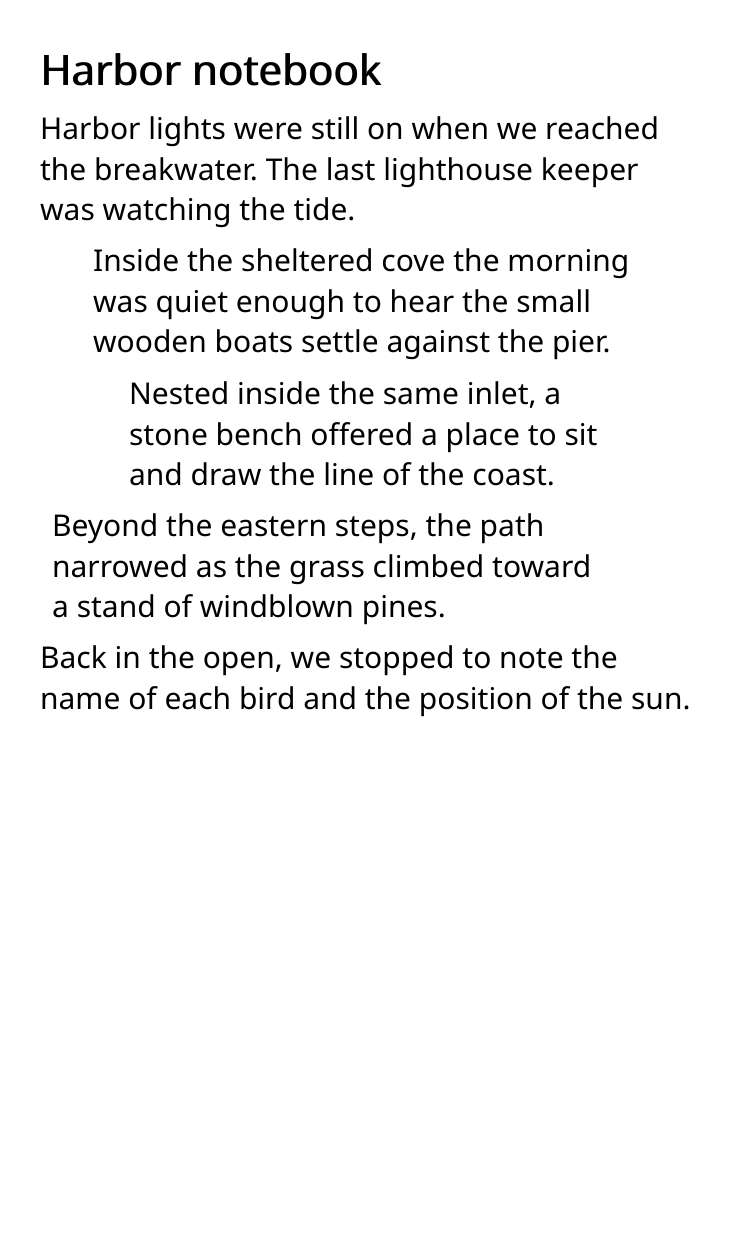
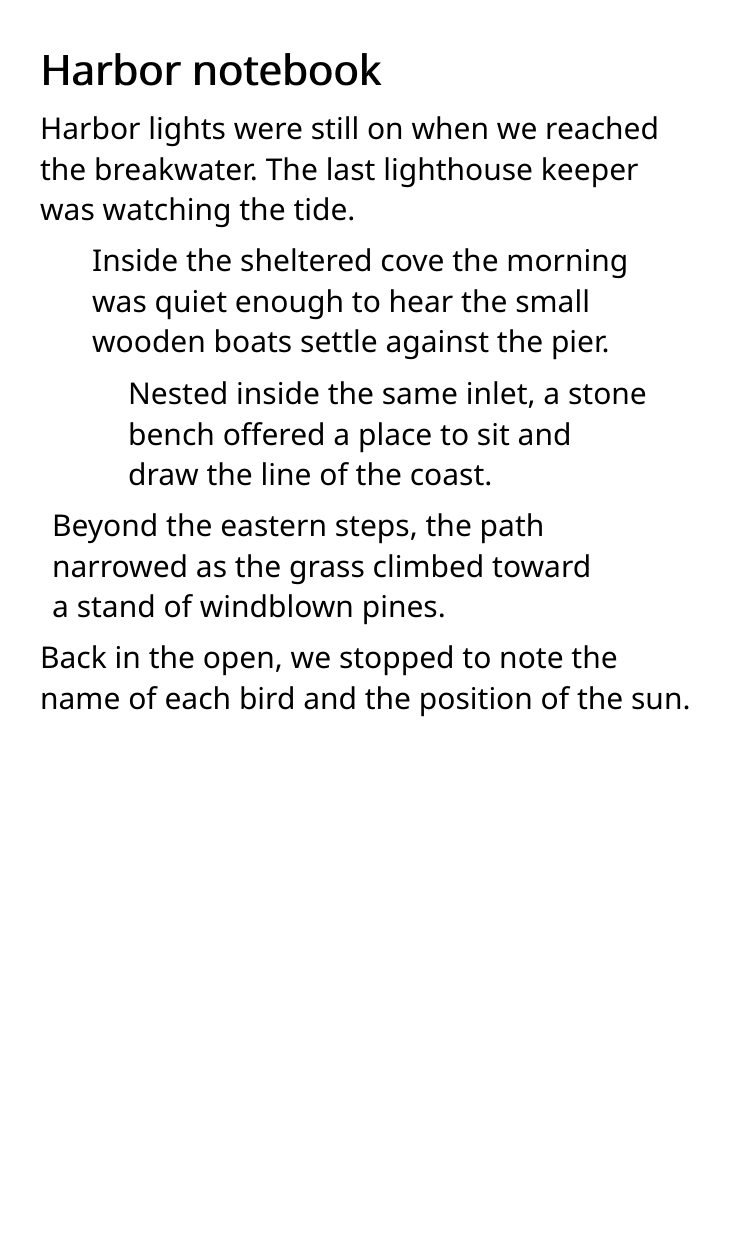
Match KOReader Book mode for fractional box edges and signed hanging indents

Changed region(s): [[0.1243, 0.1839, 0.8703, 0.3984]]

diff --git a/src/parley_layout/publisher_padding_tests.rs b/src/parley_layout/publisher_padding_tests.rs
@@ -31,8 +31,8 @@ fn publisher_box_padding_shapes_wrapped_text_and_preserves_source_positions() {
     assert_ne!(plain.capture(0).unwrap(), styled.capture(0).unwrap());
     for (id, phrase, displacement) in [
         ("ordinary", "Harbor lights", 0),
-        ("sheltered", "Inside the sheltered", 53),
-        ("nested", "Nested inside", 89),
+        ("sheltered", "Inside the sheltered", 52),
+        ("nested", "Nested inside", 88),
         ("asymmetric", "Beyond the eastern", 12),
         ("plain", "Back in the open", 0),
     ] {
@@ -139,7 +139,11 @@ fn compares_publisher_padding_in_an_original_document() {
             let shift = (p.x - old.x).round() as i32;
             let changed = p.layout.len() != old.layout.len();
             let measure = p.layout.width() - old.layout.width();
-            if shift == 0 && !changed && measure.abs() < 0.5 {
+            let changed_lines = p.layout.lines().zip(old.layout.lines()).any(|(new, old)| {
+                new.text_range() != old.text_range()
+                    || (new.metrics().offset - old.metrics().offset).abs() > 0.25
+            });
+            if shift == 0 && !changed && !changed_lines && measure.abs() < 0.5 {
                 continue;
             }
             narrower += 1;
@@ -260,4 +264,75 @@ fn negative_first_lines_spend_available_physical_padding_before_shifting_other_l
     let line = rtl.layout.get(0).unwrap();
     let edge = line.metrics().offset + line.metrics().advance;
     assert!((edge - (cfg.text_width() as f32 - 45.)).abs() < 1.);
+}
+
+#[test]
+fn an_inset_paragraph_resolves_its_visible_link_at_the_new_word_position() {
+    let html = r##"<html><body><p style="padding-left:120px"><a href="#destination">Harbor charts</a> and notes.</p><p id="destination">The next landing.</p></body></html>"##;
+    let p = Probe::from_book_content(
+        Book::open(&crate::test_fixture("field-notes-epub3.epub")).unwrap(),
+        Engine::Parley,
+        &[crate::test_fixture("fonts/NotoSans-Regular.ttf")],
+        Settings {
+            width: 640,
+            height: 800,
+            margin: 30,
+            font_size: 26.,
+            ..Default::default()
+        },
+        0,
+        Some(html.into()),
+    )
+    .unwrap();
+    let start = p.matches("Harbor charts").remove(0);
+    let end = crate::Anchor {
+        offset: start.offset + "Harbor".len(),
+        ..start.clone()
+    };
+    let selection = p.select_range(&start, &end).unwrap();
+    let page = p.page_for(&start).unwrap();
+    let bounds = p.selection_rects(page, &selection)[0];
+    let hit = p
+        .link_at(
+            page,
+            (bounds.x + bounds.width / 2) as f32,
+            (bounds.y + bounds.height / 2) as f32,
+        )
+        .unwrap();
+    assert_eq!(hit.fragment.as_deref(), Some("destination"));
+    assert_eq!(p.page_for(&p.fragment("destination").unwrap()), Some(page));
+}
+
+#[test]
+fn fractional_em_padding_matches_signed_fixed_point_lengths_at_both_font_sizes() {
+    let words = "All along the dunes the tide has left small white shells and pebbles. ".repeat(7);
+    let html = format!(
+        r#"<html><body><p id="large" style="padding-left:2.35em;text-indent:-0.65em">{words}</p>
+        <div style="font-size:85%"><p id="small" style="padding-left:2.35em;text-indent:-0.65em">{words}</p></div>
+        </body></html>"#
+    );
+    let p = Probe::from_book_content(
+        Book::open(&crate::test_fixture("field-notes-epub3.epub")).unwrap(),
+        Engine::Parley,
+        &[crate::test_fixture("fonts/NotoSans-Regular.ttf")],
+        Settings {
+            width: 760,
+            height: 1680,
+            margin: 30,
+            font_size: 42.,
+            ..Default::default()
+        },
+        0,
+        Some(html),
+    )
+    .unwrap();
+    let crate::Renderer::Parley(engine) = &p.renderer else {
+        panic!()
+    };
+    for (id, first, rest) in [("large", 70., 98.), ("small", 59., 82.)] {
+        let key = p.fragment(id).unwrap().block;
+        let q = engine.paragraphs.iter().find(|q| q.key == key).unwrap();
+        assert_eq!(q.x + q.layout.get(0).unwrap().metrics().offset, first);
+        assert_eq!(q.x + q.layout.get(1).unwrap().metrics().offset, rest);
+    }
 }

diff --git a/src/book_style.rs b/src/book_style.rs
@@ -77,6 +77,7 @@ impl ImageLength {
 pub(crate) enum CssLength {
     Em(f32),
     RootEm(f32),
+    ComputedEm { value: f32, font_scale: f32 },
     Pixels(f32),
     Fraction(f32),
 }
@@ -90,8 +91,14 @@ impl Default for CssLength {
 impl CssLength {
     fn computed(self, font: f32, root_font: f32) -> Self {
         match self {
-            Self::Em(em) => Self::Em(em * font),
-            Self::RootEm(em) => Self::Em(em * root_font),
+            Self::Em(value) => Self::ComputedEm {
+                value,
+                font_scale: font,
+            },
+            Self::RootEm(value) => Self::ComputedEm {
+                value,
+                font_scale: root_font,
+            },
             length => length,
         }
     }
@@ -99,9 +106,27 @@ impl CssLength {
     pub fn pixels(self, width: u32, reader_font: f32) -> f32 {
         match self {
             Self::Em(em) | Self::RootEm(em) => em * reader_font,
+            Self::ComputedEm { value, font_scale } => value * font_scale * reader_font,
             Self::Pixels(px) => px,
             Self::Fraction(ratio) => ratio * width as f32,
         }
+    }
+
+    // CREngine stores CSS numbers as signed units of 1/256 and uses integer
+    // font sizes and container widths when converting a block edge to pixels.
+    pub fn box_pixels(self, width: u32, reader_font: f32) -> f32 {
+        let fixed = |value: f32| (f64::from(value) * 256.).round() / 256.;
+        let pixels = match self {
+            Self::Pixels(px) => (fixed(px) + 127. / 256.).floor(),
+            Self::Fraction(ratio) => (f64::from(width) * fixed(ratio * 100.) / 100.).floor(),
+            Self::Em(value) | Self::RootEm(value) => {
+                (fixed(value) * f64::from(reader_font).floor()).floor()
+            }
+            Self::ComputedEm { value, font_scale } => {
+                (fixed(value) * f64::from(font_scale * reader_font).floor()).floor()
+            }
+        };
+        pixels as f32
     }
 }
 
@@ -133,6 +158,10 @@ impl TextIndent {
 
     pub fn pixels(self, width: u32, reader_font: f32) -> f32 {
         self.length.pixels(width, reader_font)
+    }
+
+    pub fn box_pixels(self, width: u32, reader_font: f32) -> f32 {
+        self.length.box_pixels(width, reader_font)
     }
 }
 

diff --git a/src/publisher_padding.rs b/src/publisher_padding.rs
@@ -34,7 +34,7 @@ impl BoxArea {
         style: &Style,
         font: f32,
     ) -> (u32, u32) {
-        let indent = style.text_indent.pixels(self.outer_width, font);
+        let indent = style.text_indent.box_pixels(self.outer_width, font);
         if indent >= 0.0 || self.width == self.outer_width {
             return (self.x, self.width);
         }
@@ -53,8 +53,8 @@ impl BoxArea {
     }
 
     fn pad(&mut self, sides: &[CssLength; 2], font: f32) {
-        let left = sides[0].pixels(self.width, font).round();
-        let right = sides[1].pixels(self.width, font).round();
+        let left = sides[0].box_pixels(self.width, font);
+        let right = sides[1].box_pixels(self.width, font);
         let sum = left + right;
         if sum <= 0. {
             return;
@@ -179,8 +179,8 @@ mod tests {
         let sibling = r("sibling");
         let (first_x, cell_width) = first.cell.unwrap().bounds(800, 9);
         let (second_x, second_width) = second.cell.unwrap().bounds(800, 9);
-        let ten_percent = (cell_width as f32 * 0.1).round() as u32;
-        let nested = ((cell_width - ten_percent) as f32 * 0.1).round() as u32;
+        let ten_percent = (cell_width as f32 * 0.1).floor() as u32;
+        let nested = ((cell_width - ten_percent) as f32 * 0.1).floor() as u32;
         assert_eq!(
             (first.x, first.width),
             (

diff --git a/src/parley_layout.rs b/src/parley_layout.rs
@@ -759,10 +759,13 @@ impl LineIndent {
         // available column and shifts the other lines inward (as CREngine does
         // when page overflow is disabled). This also protects adjacent cells.
         let limit = (width as f32 - font.min(width as f32 / 2.0)).max(0.0);
-        let css = style
-            .text_indent
-            .pixels(content_width, font)
-            .clamp(-limit, limit);
+        let requested = style.text_indent.pixels(content_width, font);
+        let css = if requested < 0.0 {
+            style.text_indent.box_pixels(content_width, font)
+        } else {
+            requested
+        }
+        .clamp(-limit, limit);
         let (first, rest) = if style.text_indent.hanging {
             (0.0, marker as f32 + css)
         } else {

diff --git a/docs/publisher-box-padding.md b/docs/publisher-box-padding.md
@@ -6,7 +6,7 @@ Reader now applies the left and right padding that EPUB publishers use to set of
 | --- | --- |
 | ![Quote and nested paragraph at the ordinary left edge](screenshots/publisher-box-no-padding.png) | ![Quote inset on both sides and nested note further inset](screenshots/publisher-box-padding.png) |
 
-Both images show the same authored document at 740 × 1240 pixels with 30 px type. The quotation gains 53 px on either side. A 36 px inset on its second paragraph brings that paragraph’s total displacement to 89 px. The paragraph after the quotation returns to the page edge. [Screenshot fixture](../tests/fixtures/publisher-box-padding.xhtml) · [Source-position and hit-testing checks](../src/parley_layout/publisher_padding_tests.rs)
+Both images show the same authored document at 740 × 1240 pixels with 30 px type. The quotation gains 52 px on either side. A 36 px inset on its second paragraph brings that paragraph’s total displacement to 88 px. The paragraph after the quotation returns to the page edge. [Screenshot fixture](../tests/fixtures/publisher-box-padding.xhtml) · [Source-position and hit-testing checks](../src/parley_layout/publisher_padding_tests.rs)
 
 ## Publisher rules
 
@@ -16,7 +16,7 @@ KOReader v2026.07.1 uses CREngine’s shorthand expansion, content-box measureme
 
 ## Original publications
 
-The Mac comparison held fonts, page size, source markup and remaining publisher styles constant. It removed only horizontal padding for the control. Across 16 sections from seven original EPUBs, the reader changed the geometry of 322 paragraphs. Of these, 34 changed line count. Selections still resolved the same original text in both layouts. Sampled pages rendered and returned to their saved source positions. The authored regression also checks search matches and word taps.
+The Mac comparison held fonts, page size, source markup and remaining publisher styles constant. It removed only horizontal padding for the control. Across 20 sections from eight original EPUBs, Reader changed the geometry of 609 paragraphs. Of these, 50 changed line count. Selections still resolved the same original text in both layouts. Sampled pages rendered and returned to their saved source positions. The authored regression also checks search matches and word taps.
 
 | Anonymous EPUB | Chapters checked | Paragraphs with changed geometry | Paragraphs with changed line count |
 | --- | ---: | ---: | ---: |
@@ -27,5 +27,12 @@ The Mac comparison held fonts, page size, source markup and remaining publisher 
 | 058 | 2 | 25 | 0 |
 | 061 | 2 | 52 | 6 |
 | 062 | 3 | 16 | 1 |
+| 069 | 4 | 287 | 16 |
 
-Original 047 contains 811 matching paragraphs in the sampled chapters. The publisher offsets their leading padding with an equal negative first-line indent. Their text geometry remained identical in both modes. Original 036 also uses unequal lengths. Its displaced paragraphs began 61 to 84 px farther inward when the complete rule was applied. The chapter and byte positions in both comparisons refer to the same original publication.
+Original 047 contains 811 matching paragraphs in the sampled chapters. The publisher offsets their leading padding with an equal negative first-line indent. Their text geometry remained identical in both modes. Original 036 also uses unequal lengths. Its displaced paragraphs began 59 to 84 px farther inward when the complete rule was applied. The chapter and byte positions in both comparisons refer to the same original publication.
+
+## Reference render modes
+
+KOReader’s reading interface selects **Book** by default. It prevents a negative first line from painting outside its paragraph box. Its **Web** mode allows that overflow and is also the default when starting a standalone CREngine document view. The comparator explicitly selects the reading UI’s Book flags before opening each original. [KOReader render-mode setting](https://github.com/koreader/koreader/blob/v2026.07.1/frontend/ui/data/creoptions.lua#L317-L330) · [Flags used by the reading interface](https://github.com/koreader/koreader/blob/v2026.07.1/frontend/apps/reader/modules/readertypeset.lua#L378-L438)
+
+Original 036 provided a precise check. The publisher specifies a 2.35em leading inset and a −0.65em first-line indent. Installed CREngine resolved one em to 35 or 42 pixels at the sampled passages. Its Book-mode first lines moved 59 or 70 px when the padding was enabled. In Web mode they moved 82 or 98 px. Reader now follows CREngine’s 1/256-unit CSS lengths and integer font sizing at block edges. The authored regression reproduces the two Book-mode positions and the following lines’ 82 and 98 px insets. [CSS number parsing](https://github.com/koreader/crengine/blob/b32a88ffbbf505cf2ea5208c1a49002d70d3609f/crengine/src/lvstsheet.cpp#L817-L829) · [Conversion to layout pixels](https://github.com/koreader/crengine/blob/b32a88ffbbf505cf2ea5208c1a49002d70d3609f/crengine/src/lvrend.cpp#L2582-L2633) · [Device comparator](../scripts/koreader-box-padding.lua)
